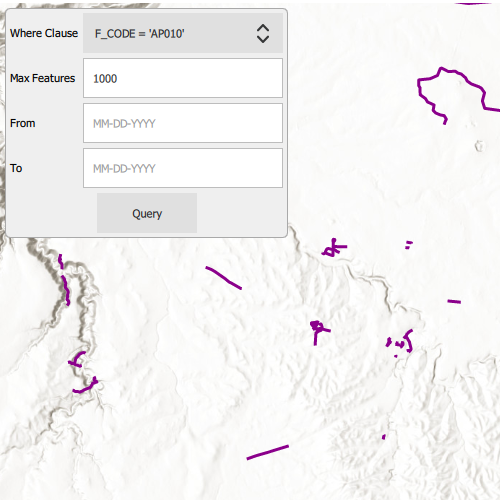
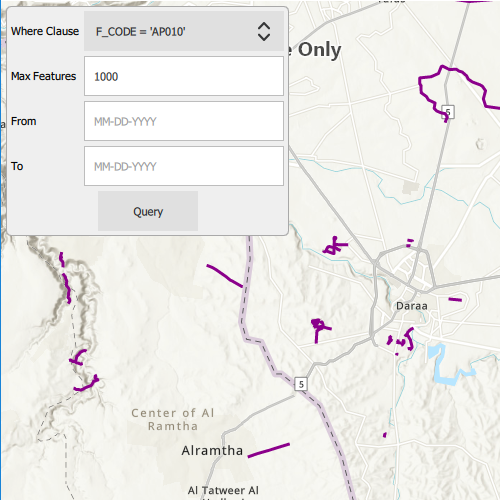
Update QueryOGCAPICQLFilters C++ sample to match QML (#1315)
* verification feedback: Update README

* update the scale for C++ sample to match QML

* Add default whereClause to Cpp sample

* Update README to include a suggested time range

* Update screenshots

* Update date format to avoid ambiguity

diff --git a/ArcGISRuntimeSDKQt_CppSamples/Layers/QueryOGCAPICQLFilters/QueryOGCAPICQLFilters.cpp b/ArcGISRuntimeSDKQt_CppSamples/Layers/QueryOGCAPICQLFilters/QueryOGCAPICQLFilters.cpp
@@ -72,14 +72,14 @@ void QueryOGCAPICQLFilters::setMapView(MapQuickView* mapView)
 
   m_mapView = mapView;
   m_mapView->setMap(m_map);
-  m_mapView->setViewpoint(Viewpoint(32.62, 36.10, 20'000));
+  m_mapView->setViewpoint(Viewpoint(32.62, 36.10, 200'000));
 
   QueryParameters queryParams;
 
   //Get the extent of the dataset
   m_dataSetExtent = m_ogcFeatureCollectionTable->extent();
   queryParams.setGeometry(m_dataSetExtent);
-
+  queryParams.setWhereClause("F_CODE = 'AP010'");
   queryParams.setMaxFeatures(1000);
 
   // Populate the feature collection table with features that match the parameters, clear the cache, and store all table fields

diff --git a/ArcGISRuntimeSDKQt_CppSamples/Layers/QueryOGCAPICQLFilters/README.md b/ArcGISRuntimeSDKQt_CppSamples/Layers/QueryOGCAPICQLFilters/README.md
@@ -9,7 +9,7 @@ Query data from an OGC API feature service using CQL filters.
 CQL (Common Query Language) is an OGC-created query language used to query for subsets of features. Use CQL filters to narrow geometry results from an OGC feature table.
 
 ## How to use the sample
-The sample loads displaying 1000 features within the OGC API feature service. Select a sample CQL query from the drop down menu. Optionally, adjust the max features value in the text box, and enter a date range to query the data with a time extent. Press the "Query" button to see the query applied to the OGC API features shown on the map.
+The sample loads displaying a maximum of 1000 features within the OGC API feature service. Select a sample CQL query from the drop down menu. Optionally, adjust the max features value in the text box, and enter a date range such as June 13, 2011 (06-13-2011) to January 7, 2012 (01-07-2012) to narrow down the results based on time extent. Press the "Query" button to see the query applied to the OGC API features shown on the map.
 
 ## How it works
 1. Create an `OgcFeatureCollectionTable` object using a URL to an OGC API feature service and a collection ID.
@@ -32,4 +32,3 @@ See the [OGC API website](https://ogcapi.ogc.org/) for more information on the O
 
 ## Tags
 browse, catalog, common query language, CQL, feature table, filter, OGC, OGC API, query, service, web
-

diff --git a/ArcGISRuntimeSDKQt_QMLSamples/Layers/QueryOGCAPICQLFilters/README.md b/ArcGISRuntimeSDKQt_QMLSamples/Layers/QueryOGCAPICQLFilters/README.md
@@ -9,7 +9,7 @@ Query data from an OGC API feature service using CQL filters.
 CQL (Common Query Language) is an OGC-created query language used to query for subsets of features. Use CQL filters to narrow geometry results from an OGC feature table.
 
 ## How to use the sample
-The sample loads displaying 1000 features within the OGC API feature service. Select a sample CQL query from the drop down menu. Optionally, adjust the max features value in the text box, and enter a date range to query the data with a time extent. Press the "Query" button to see the query applied to the OGC API features shown on the map.
+The sample loads displaying a maximum of 1000 features within the OGC API feature service. Select a sample CQL query from the drop down menu. Optionally, adjust the max features value in the text box, and enter a date range such as June 13, 2011 (06-13-2011) to January 7, 2012 (01-07-2012) to narrow down the results based on time extent. Press the "Query" button to see the query applied to the OGC API features shown on the map.
 
 ## How it works
 1. Create an `OgcFeatureCollectionTable` object using a URL to an OGC API feature service and a collection ID.
